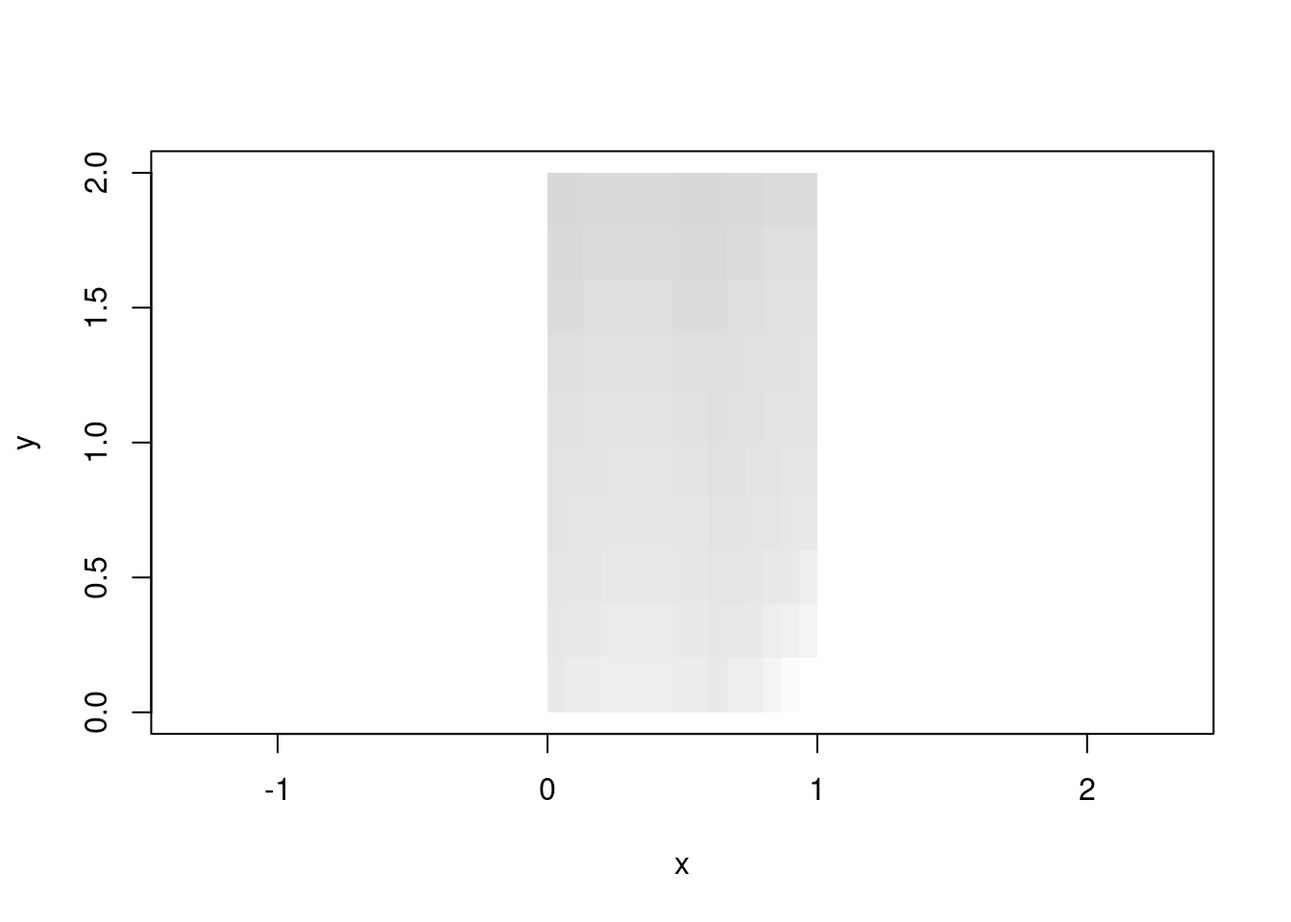
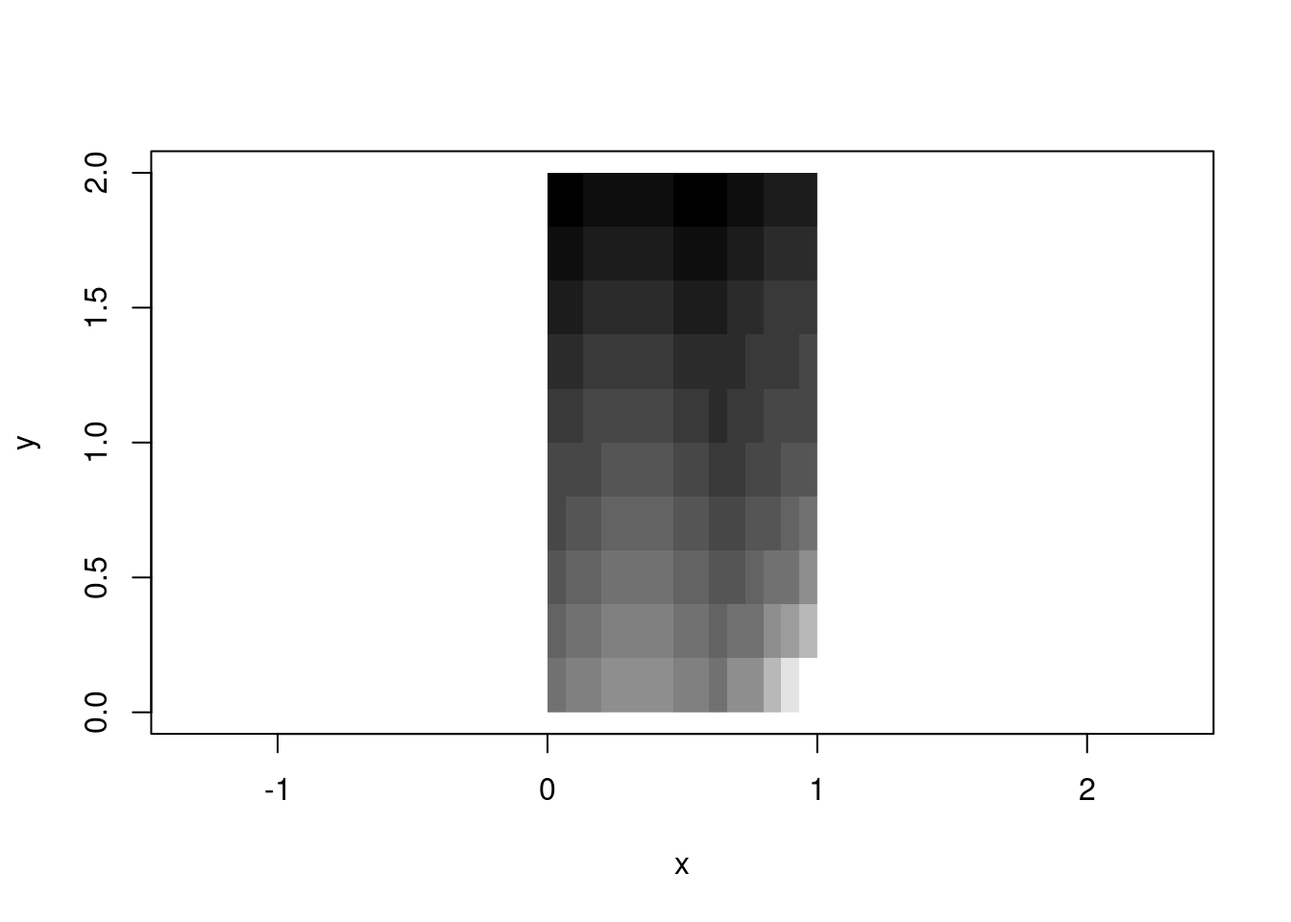
rebuild

Changed region(s): [[0.4062, 0.1875, 0.6562, 0.7812]]

diff --git a/_site/posts/2025-12-21_vaster-grid-logic/vaster-grid-logic.html b/_site/posts/2025-12-21_vaster-grid-logic/vaster-grid-logic.html
@@ -207,7 +207,7 @@ pre > code.sourceCode > span > a:first-child::before { text-decoration: underlin
 <p>Every geospatial package that works with grids has <em>raster logic</em> inside. The old {raster} package in R established powerful abstraction functions and now {terra} includes an improved suite of those, the {stars} package has its own internally, GDAL obviously uses these abstractions deeply, and xarray and many other Python packages also provide this. There is similar logic built into R’s matrix and array functions, its visualization <code>image()</code> function, and the newer <code>rasterImage()</code>.</p>
 <p>Is there a problem? This logic is almost always coupled to a data structure. You can’t use raster’s <code>cellFromXY()</code> without a RasterLayer. You can’t use terra’s <code>xyFromCell()</code> or <code>cells()</code> without a SpatRaster. Many packages have embedded this reinvented wheel, and to more or less degree lock the wheel inside a bigger machine.</p>
 <p>The logic itself is beautifully simple: given a grid with certain dimensions (ncol, nrow) and a spatial extent (xmin, xmax, ymin, ymax, or identically ‘bbox’ xmin,ymin,xmax,ymax), you can compute everything else. Cell indices, row/column positions, coordinate centres and corners, cropping and snapping—all of it flows from six numbers and some basic arithmetic.</p>
-<p>That’s what {vaster} extracts: the logic alone, without any data. (This logic of course is not especially 2D and extends into n-dimensional concepts as well illustrated by xarray and others, but please let’s park that from our discussion here.)</p>
+<p>That’s what <a href="https://hypertidy.github.io/vaster/">{vaster}</a> extracts: the logic alone, without any data. (This logic of course is not especially 2D and extends into n-dimensional concepts as well illustrated by xarray and others, but please let’s park that from our discussion here.)</p>
 </section>
 <section id="r-already-knows-this-sort-of" class="level2">
 <h2 class="anchored" data-anchor-id="r-already-knows-this-sort-of">R already knows this (sort of)</h2>
@@ -235,7 +235,7 @@ pre > code.sourceCode > span > a:first-child::before { text-decoration: underlin
 <h3 class="anchored" data-anchor-id="the-rasterimage-model-bounding-box-placement">The <code>rasterImage()</code> model: bounding box placement</h3>
 <div class="cell">
 <div class="sourceCode cell-code" id="cb2"><pre class="sourceCode r code-with-copy"><code class="sourceCode r"><span id="cb2-1"><a href="#cb2-1" aria-hidden="true" tabindex="-1"></a><span class="fu">plot</span>(<span class="cn">NA</span>, <span class="at">xlim =</span> <span class="fu">c</span>(<span class="dv">0</span>, <span class="dv">1</span>), <span class="at">ylim =</span> <span class="fu">c</span>(<span class="dv">0</span>, <span class="dv">2</span>), <span class="at">asp =</span> <span class="dv">1</span>, <span class="at">xlab =</span> <span class="st">"x"</span>, <span class="at">ylab =</span> <span class="st">"y"</span>)</span>
-<span id="cb2-2"><a href="#cb2-2" aria-hidden="true" tabindex="-1"></a><span class="fu">rasterImage</span>(<span class="fu">as.raster</span>(m<span class="sc">/</span><span class="fu">max</span>(m)), <span class="at">xleft =</span> <span class="dv">0</span>, <span class="at">ybottom =</span> <span class="dv">0</span>, <span class="at">xright =</span> <span class="dv">1</span>, <span class="at">ytop =</span> <span class="dv">2</span>, <span class="at">interpolate =</span> F)</span></code><button title="Copy to Clipboard" class="code-copy-button"><i class="bi"></i></button></pre></div>
+<span id="cb2-2"><a href="#cb2-2" aria-hidden="true" tabindex="-1"></a><span class="fu">rasterImage</span>(<span class="fu">as.raster</span>(scales<span class="sc">::</span><span class="fu">rescale</span>(m)), <span class="at">xleft =</span> <span class="dv">0</span>, <span class="at">ybottom =</span> <span class="dv">0</span>, <span class="at">xright =</span> <span class="dv">1</span>, <span class="at">ytop =</span> <span class="dv">2</span>, <span class="at">interpolate =</span> F)</span></code><button title="Copy to Clipboard" class="code-copy-button"><i class="bi"></i></button></pre></div>
 <div class="cell-output-display">
 <div>
 <figure class="figure">
@@ -249,7 +249,7 @@ pre > code.sourceCode > span > a:first-child::before { text-decoration: underlin
 </section>
 <section id="ximage-unifying-both-models" class="level3">
 <h3 class="anchored" data-anchor-id="ximage-unifying-both-models">{ximage}: unifying both models</h3>
-<p>There’s a sort of frustration in base are with <code>image()</code> and <code>rasterImage()</code>, each have features the other lacks. <code>image()</code> handles numeric data with colour palettes and is geared to R’s matrix orientation, can create a plot or add to an existing one, but by default will draw into a unit square. <code>rasterImage()</code> handles the orientation more aligned to external raster data and graphics, but only works with unit-scaled data or pre-rendered images—no palette mapping, and no plot creation (only adding to an existing plot) .</p>
+<p>There’s a sort of frustration in base with <code>image()</code> and <code>rasterImage()</code>, each has features the other lacks. <code>image()</code> handles numeric data with colour palettes and is geared to R’s matrix orientation, can create a plot or add to an existing one, but by default will draw into a unit square. <code>rasterImage()</code> handles the orientation more aligned to external raster data and graphics, but only works with unit-scaled data or pre-rendered images—no palette mapping, and no plot creation (only adding to an existing plot) .</p>
 <p>{ximage} merges the features of both into one function that uses the rasterImage orientation:</p>
 <div class="sourceCode" id="cb3"><pre class="sourceCode r code-with-copy"><code class="sourceCode r"><span id="cb3-1"><a href="#cb3-1" aria-hidden="true" tabindex="-1"></a><span class="fu">library</span>(ximage)</span>
 <span id="cb3-2"><a href="#cb3-2" aria-hidden="true" tabindex="-1"></a></span>
@@ -453,8 +453,8 @@ $dimension
 <p>{vaster} is the foundation that makes this all clean. Instead of each package reinventing <code>cellFromXY()</code> and friends, they can share a common vocabulary for grid logic.</p>
 </section>
 </section>
-<section id="the-python-world-is-catching-up" class="level2">
-<h2 class="anchored" data-anchor-id="the-python-world-is-catching-up">The Python world is catching up</h2>
+<section id="python-has-the-same-mix-of-concepts-and-tools" class="level2">
+<h2 class="anchored" data-anchor-id="python-has-the-same-mix-of-concepts-and-tools">Python has the same mix of concepts and tools</h2>
 <p>The Python geospatial ecosystem has grappled with the same issues that motivated {vaster}.</p>
 <p>A <a href="https://discourse.pangeo.io/t/comparing-odc-stac-load-and-stackstac-for-raster-composite-workflow/4097">recent pangeo discussion</a> compared <code>odc.stac</code> and <code>stackstac</code>—two packages for loading satellite imagery into xarray. Despite ostensibly doing the same thing, they produce different results. Why?</p>
 <p><strong>Pixel coordinates: edge or centre?</strong> When you say a pixel is at coordinate (100.0, 200.0), do you mean that’s its centre, or its top-left corner? <code>odc.stac</code> defaults to centre, <code>stackstac</code> defaults to edge. Both are valid conventions; GIS tools tend toward corners, while climate/ocean data tends toward centres. But if you don’t know which convention your tool uses, your data shifts by half a pixel.</p>
@@ -467,8 +467,8 @@ $dimension
 <blockquote class="blockquote">
 <p>For 2D raster images, this function often takes the form of an Affine Transform. The rasterix library extends Xarray with a RasterIndex which computes coordinates for geospatial images such as GeoTiffs via Affine Transform.</p>
 </blockquote>
-<p>This is the same insight: <strong>coordinates are implicit in dimension and extent</strong>. You don’t need to materialize a 7-terabyte coordinate array when six numbers suffice. The xarray team is building infrastructure for what {vaster} has provided all along.</p>
-<p>The Python ecosystem is large and well-funded, so these tools will eventually mature. But it’s worth noting that the conceptual foundation—grid logic as pure computation on dimension and extent—has been available in R for years, just waiting to be extracted from the packages that imprisoned it.</p>
+<p>This is the same insight: <strong>coordinates are implicit in dimension and extent</strong>. You don’t need to materialize a 7-terabyte coordinate array when six numbers suffice. The xarray team is building infrastructure for raster grid logic itself.</p>
+<p>The Python ecosystem will align around this conceptual foundation—grid logic as well as R and other language.</p>
 </section>
 </section>
 <section id="the-r-matrix-connection" class="level2">
@@ -483,14 +483,11 @@ $dimension
 <div class="sourceCode cell-code" id="cb28"><pre class="sourceCode r code-with-copy"><code class="sourceCode r"><span id="cb28-1"><a href="#cb28-1" aria-hidden="true" tabindex="-1"></a>dsn <span class="ot">&lt;-</span> <span class="st">"WMTS:https://services.arcgisonline.com/arcgis/rest/services/World_Imagery/MapServer/WMTS/1.0.0/WMTSCapabilities.xml,layer=World_Imagery"</span></span></code><button title="Copy to Clipboard" class="code-copy-button"><i class="bi"></i></button></pre></div>
 </div>
 <p>So, obviously we need a huge stack of Python geospatial to make a map image … or maybe we can just use generic tools and do it in R.</p>
-<p>We’re using {gdalraster} here because it’s the thinnest wrapper over the GDAL API, but the same calls work through {terra}, {vapour}, or Python’s osgeo.gdal. The point isn’t the package — it’s that the interface is just numbers and strings.</p>
+<p>We’re using {gdalraster} here because it’s the thinnest wrapper over the GDAL API, but the same calls work through {terra}, {vapour}, or Python’s osgeo.gdal. The point isn’t the package — it’s that the interface is just numbers and strings. I’m still using a mix of tools and plotting … but that’s life.</p>
 <div class="cell">
-<div class="sourceCode cell-code" id="cb29"><pre class="sourceCode r code-with-copy"><code class="sourceCode r"><span id="cb29-1"><a href="#cb29-1" aria-hidden="true" tabindex="-1"></a><span class="fu">library</span>(gdalraster)</span></code><button title="Copy to Clipboard" class="code-copy-button"><i class="bi"></i></button></pre></div>
-<div class="cell-output cell-output-stderr">
-<pre><code>GDAL 3.12.0beta1 (released 2025-10-26), GEOS 3.12.1, PROJ 9.7.0</code></pre>
-</div>
-<div class="sourceCode cell-code" id="cb31"><pre class="sourceCode r code-with-copy"><code class="sourceCode r"><span id="cb31-1"><a href="#cb31-1" aria-hidden="true" tabindex="-1"></a>ds <span class="ot">&lt;-</span> <span class="fu">new</span>(GDALRaster, dsn)  <span class="do">## same as terra::rast(dsn) or osgeo.gdal.Open(dsn) or rioxarray.open_rasterio(dsn)</span></span>
-<span id="cb31-2"><a href="#cb31-2" aria-hidden="true" tabindex="-1"></a>ds</span></code><button title="Copy to Clipboard" class="code-copy-button"><i class="bi"></i></button></pre></div>
+<div class="sourceCode cell-code" id="cb29"><pre class="sourceCode r code-with-copy"><code class="sourceCode r"><span id="cb29-1"><a href="#cb29-1" aria-hidden="true" tabindex="-1"></a><span class="fu">library</span>(gdalraster)</span>
+<span id="cb29-2"><a href="#cb29-2" aria-hidden="true" tabindex="-1"></a>ds <span class="ot">&lt;-</span> <span class="fu">new</span>(GDALRaster, dsn)  <span class="do">## same as terra::rast(dsn) or osgeo.gdal.Open(dsn) or rioxarray.open_rasterio(dsn)</span></span>
+<span id="cb29-3"><a href="#cb29-3" aria-hidden="true" tabindex="-1"></a>ds</span></code><button title="Copy to Clipboard" class="code-copy-button"><i class="bi"></i></button></pre></div>
 <div class="cell-output cell-output-stdout">
 <pre><code>C++ object of class GDALRaster
  Driver : OGC Web Map Tile Service (WMTS)
@@ -504,17 +501,17 @@ $dimension
 <p>We don’t want the whole world and certainly not that much detail, how about Mawson Station in Antarctica, Mawson is at approximately 62.87E and -67.6S.</p>
 <p>We should define a local equal area projection, on Mawson.</p>
 <div class="cell">
-<div class="sourceCode cell-code" id="cb33"><pre class="sourceCode r code-with-copy"><code class="sourceCode r"><span id="cb33-1"><a href="#cb33-1" aria-hidden="true" tabindex="-1"></a>prj <span class="ot">&lt;-</span> <span class="st">"+proj=laea +lon_0=62.8742 +lat_0=-67.6033"</span></span></code><button title="Copy to Clipboard" class="code-copy-button"><i class="bi"></i></button></pre></div>
+<div class="sourceCode cell-code" id="cb31"><pre class="sourceCode r code-with-copy"><code class="sourceCode r"><span id="cb31-1"><a href="#cb31-1" aria-hidden="true" tabindex="-1"></a>prj <span class="ot">&lt;-</span> <span class="st">"+proj=laea +lon_0=62.8742 +lat_0=-67.6033"</span></span></code><button title="Copy to Clipboard" class="code-copy-button"><i class="bi"></i></button></pre></div>
 </div>
 <p>What is the right extent or bbox for that projection? It’s just metres around the <em>zero-point</em>, let’s go with a range.</p>
 <div class="cell">
-<div class="sourceCode cell-code" id="cb34"><pre class="sourceCode r code-with-copy"><code class="sourceCode r"><span id="cb34-1"><a href="#cb34-1" aria-hidden="true" tabindex="-1"></a>b <span class="ot">&lt;-</span> <span class="dv">75000</span></span>
-<span id="cb34-2"><a href="#cb34-2" aria-hidden="true" tabindex="-1"></a>tfile <span class="ot">&lt;-</span> <span class="fu">tempfile</span>(<span class="at">tmpdir =</span> <span class="st">"/vsimem"</span>, <span class="at">fileext =</span> <span class="st">".vrt"</span>) <span class="do">## use GDAL to manage IO and cleanup, same in other tools</span></span>
-<span id="cb34-3"><a href="#cb34-3" aria-hidden="true" tabindex="-1"></a>chk <span class="ot">&lt;-</span> <span class="fu">warp</span>(dsn, tfile, <span class="at">t_srs =</span> prj, <span class="at">cl_arg =</span> <span class="fu">c</span>(<span class="st">"-te"</span>, <span class="sc">-</span>b, <span class="sc">-</span>b, b, b,  <span class="st">"-ts"</span>, <span class="dv">1024</span>, <span class="dv">0</span>))</span></code><button title="Copy to Clipboard" class="code-copy-button"><i class="bi"></i></button></pre></div>
+<div class="sourceCode cell-code" id="cb32"><pre class="sourceCode r code-with-copy"><code class="sourceCode r"><span id="cb32-1"><a href="#cb32-1" aria-hidden="true" tabindex="-1"></a>b <span class="ot">&lt;-</span> <span class="dv">75000</span></span>
+<span id="cb32-2"><a href="#cb32-2" aria-hidden="true" tabindex="-1"></a>tfile <span class="ot">&lt;-</span> <span class="fu">tempfile</span>(<span class="at">tmpdir =</span> <span class="st">"/vsimem"</span>, <span class="at">fileext =</span> <span class="st">".vrt"</span>) <span class="do">## use GDAL to manage IO and cleanup, same in other tools</span></span>
+<span id="cb32-3"><a href="#cb32-3" aria-hidden="true" tabindex="-1"></a>chk <span class="ot">&lt;-</span> <span class="fu">warp</span>(dsn, tfile, <span class="at">t_srs =</span> prj, <span class="at">cl_arg =</span> <span class="fu">c</span>(<span class="st">"-te"</span>, <span class="sc">-</span>b, <span class="sc">-</span>b, b, b,  <span class="st">"-ts"</span>, <span class="dv">1024</span>, <span class="dv">0</span>))</span></code><button title="Copy to Clipboard" class="code-copy-button"><i class="bi"></i></button></pre></div>
 <div class="cell-output cell-output-stdout">
 <pre><code>0...10...20...30...40...50...60...70...80...90...100 - done.</code></pre>
 </div>
-<div class="sourceCode cell-code" id="cb36"><pre class="sourceCode r code-with-copy"><code class="sourceCode r"><span id="cb36-1"><a href="#cb36-1" aria-hidden="true" tabindex="-1"></a><span class="fu">plot_raster</span>(<span class="fu">read_ds</span>(<span class="fu">new</span>(GDALRaster, tfile), <span class="at">bands =</span> <span class="dv">1</span><span class="sc">:</span><span class="dv">3</span>))</span></code><button title="Copy to Clipboard" class="code-copy-button"><i class="bi"></i></button></pre></div>
+<div class="sourceCode cell-code" id="cb34"><pre class="sourceCode r code-with-copy"><code class="sourceCode r"><span id="cb34-1"><a href="#cb34-1" aria-hidden="true" tabindex="-1"></a><span class="fu">plot_raster</span>(<span class="fu">read_ds</span>(<span class="fu">new</span>(GDALRaster, tfile), <span class="at">bands =</span> <span class="dv">1</span><span class="sc">:</span><span class="dv">3</span>))</span></code><button title="Copy to Clipboard" class="code-copy-button"><i class="bi"></i></button></pre></div>
 <div class="cell-output-display">
 <div>
 <figure class="figure">
@@ -525,17 +522,17 @@ $dimension
 </div>
 <p>What about a different data source, can we see any meaningful data in sea ice at this time of year?</p>
 <div class="cell">
-<div class="sourceCode cell-code" id="cb37"><pre class="sourceCode r code-with-copy"><code class="sourceCode r"><span id="cb37-1"><a href="#cb37-1" aria-hidden="true" tabindex="-1"></a>icedsn <span class="ot">&lt;-</span> <span class="st">"/vsicurl/https://data.seaice.uni-bremen.de/amsr2/asi_daygrid_swath/s3125/2025/dec/Antarctic3125/asi-AMSR2-s3125-20251220-v5.4.tif"</span></span>
-<span id="cb37-2"><a href="#cb37-2" aria-hidden="true" tabindex="-1"></a></span>
-<span id="cb37-3"><a href="#cb37-3" aria-hidden="true" tabindex="-1"></a>tfile <span class="ot">&lt;-</span> <span class="fu">tempfile</span>(<span class="at">tmpdir =</span> <span class="st">"/vsimem"</span>, <span class="at">fileext =</span> <span class="st">".vrt"</span>)</span>
-<span id="cb37-4"><a href="#cb37-4" aria-hidden="true" tabindex="-1"></a>chk <span class="ot">&lt;-</span> <span class="fu">warp</span>(icedsn, tfile, <span class="at">t_srs =</span> prj, <span class="at">cl_arg =</span> <span class="fu">c</span>(<span class="st">"-te"</span>, <span class="sc">-</span>b, <span class="sc">-</span>b, b, b,  <span class="st">"-ts"</span>, <span class="dv">1024</span>, <span class="dv">0</span>))</span></code><button title="Copy to Clipboard" class="code-copy-button"><i class="bi"></i></button></pre></div>
+<div class="sourceCode cell-code" id="cb35"><pre class="sourceCode r code-with-copy"><code class="sourceCode r"><span id="cb35-1"><a href="#cb35-1" aria-hidden="true" tabindex="-1"></a>icedsn <span class="ot">&lt;-</span> <span class="st">"/vsicurl/https://data.seaice.uni-bremen.de/amsr2/asi_daygrid_swath/s3125/2025/dec/Antarctic3125/asi-AMSR2-s3125-20251220-v5.4.tif"</span></span>
+<span id="cb35-2"><a href="#cb35-2" aria-hidden="true" tabindex="-1"></a></span>
+<span id="cb35-3"><a href="#cb35-3" aria-hidden="true" tabindex="-1"></a>tfile <span class="ot">&lt;-</span> <span class="fu">tempfile</span>(<span class="at">tmpdir =</span> <span class="st">"/vsimem"</span>, <span class="at">fileext =</span> <span class="st">".vrt"</span>)</span>
+<span id="cb35-4"><a href="#cb35-4" aria-hidden="true" tabindex="-1"></a>chk <span class="ot">&lt;-</span> <span class="fu">warp</span>(icedsn, tfile, <span class="at">t_srs =</span> prj, <span class="at">cl_arg =</span> <span class="fu">c</span>(<span class="st">"-te"</span>, <span class="sc">-</span>b, <span class="sc">-</span>b, b, b,  <span class="st">"-ts"</span>, <span class="dv">1024</span>, <span class="dv">0</span>))</span></code><button title="Copy to Clipboard" class="code-copy-button"><i class="bi"></i></button></pre></div>
 <div class="cell-output cell-output-stdout">
 <pre><code>0...10...20...30...40...50...60...70...80...90...100 - done.</code></pre>
 </div>
-<div class="sourceCode cell-code" id="cb39"><pre class="sourceCode r code-with-copy"><code class="sourceCode r"><span id="cb39-1"><a href="#cb39-1" aria-hidden="true" tabindex="-1"></a>dat <span class="ot">&lt;-</span> <span class="fu">read_ds</span>(<span class="fu">new</span>(GDALRaster, tfile), <span class="at">bands =</span> <span class="dv">1</span>)</span>
-<span id="cb39-2"><a href="#cb39-2" aria-hidden="true" tabindex="-1"></a>dat[dat <span class="sc">&gt;</span> <span class="dv">100</span>] <span class="ot">&lt;-</span> <span class="cn">NA</span></span>
-<span id="cb39-3"><a href="#cb39-3" aria-hidden="true" tabindex="-1"></a>op <span class="ot">&lt;-</span> <span class="fu">par</span>(<span class="at">bg =</span> <span class="st">"darkgrey"</span>)</span>
-<span id="cb39-4"><a href="#cb39-4" aria-hidden="true" tabindex="-1"></a><span class="fu">plot_raster</span>(dat, <span class="at">legend =</span> T)</span></code><button title="Copy to Clipboard" class="code-copy-button"><i class="bi"></i></button></pre></div>
+<div class="sourceCode cell-code" id="cb37"><pre class="sourceCode r code-with-copy"><code class="sourceCode r"><span id="cb37-1"><a href="#cb37-1" aria-hidden="true" tabindex="-1"></a>dat <span class="ot">&lt;-</span> <span class="fu">read_ds</span>(<span class="fu">new</span>(GDALRaster, tfile), <span class="at">bands =</span> <span class="dv">1</span>)</span>
+<span id="cb37-2"><a href="#cb37-2" aria-hidden="true" tabindex="-1"></a>dat[dat <span class="sc">&gt;</span> <span class="dv">100</span>] <span class="ot">&lt;-</span> <span class="cn">NA</span></span>
+<span id="cb37-3"><a href="#cb37-3" aria-hidden="true" tabindex="-1"></a>op <span class="ot">&lt;-</span> <span class="fu">par</span>(<span class="at">bg =</span> <span class="st">"darkgrey"</span>)</span>
+<span id="cb37-4"><a href="#cb37-4" aria-hidden="true" tabindex="-1"></a><span class="fu">plot_raster</span>(dat, <span class="at">legend =</span> T)</span></code><button title="Copy to Clipboard" class="code-copy-button"><i class="bi"></i></button></pre></div>
 <div class="cell-output-display">
 <div>
 <figure class="figure">
@@ -543,18 +540,18 @@ $dimension
 </figure>
 </div>
 </div>
-<div class="sourceCode cell-code" id="cb40"><pre class="sourceCode r code-with-copy"><code class="sourceCode r"><span id="cb40-1"><a href="#cb40-1" aria-hidden="true" tabindex="-1"></a><span class="fu">par</span>(op)</span></code><button title="Copy to Clipboard" class="code-copy-button"><i class="bi"></i></button></pre></div>
+<div class="sourceCode cell-code" id="cb38"><pre class="sourceCode r code-with-copy"><code class="sourceCode r"><span id="cb38-1"><a href="#cb38-1" aria-hidden="true" tabindex="-1"></a><span class="fu">par</span>(op)</span></code><button title="Copy to Clipboard" class="code-copy-button"><i class="bi"></i></button></pre></div>
 </div>
 <p>Not unexpectedly at 3.125km resolution it’s a bit sparse on information, but we didn’t have to use a different approach to get coincident data.</p>
 <p>What about the bathymetry? Even at this scale we can see the disparity between bathymetric and topographic detail.</p>
 <div class="cell">
-<div class="sourceCode cell-code" id="cb41"><pre class="sourceCode r code-with-copy"><code class="sourceCode r"><span id="cb41-1"><a href="#cb41-1" aria-hidden="true" tabindex="-1"></a>bathdsn <span class="ot">&lt;-</span> <span class="st">"/vsicurl/https://projects.pawsey.org.au/idea-gebco-tif/GEBCO_2024.tif"</span></span>
-<span id="cb41-2"><a href="#cb41-2" aria-hidden="true" tabindex="-1"></a>tfile <span class="ot">&lt;-</span> <span class="fu">tempfile</span>(<span class="at">tmpdir =</span> <span class="st">"/vsimem"</span>, <span class="at">fileext =</span> <span class="st">".vrt"</span>)</span>
-<span id="cb41-3"><a href="#cb41-3" aria-hidden="true" tabindex="-1"></a>chk <span class="ot">&lt;-</span> <span class="fu">warp</span>(bathdsn, tfile, <span class="at">t_srs =</span> prj, <span class="at">cl_arg =</span> <span class="fu">c</span>(<span class="st">"-te"</span>, <span class="sc">-</span>b, <span class="sc">-</span>b, b, b,  <span class="st">"-ts"</span>, <span class="dv">1024</span>, <span class="dv">0</span>))</span></code><button title="Copy to Clipboard" class="code-copy-button"><i class="bi"></i></button></pre></div>
+<div class="sourceCode cell-code" id="cb39"><pre class="sourceCode r code-with-copy"><code class="sourceCode r"><span id="cb39-1"><a href="#cb39-1" aria-hidden="true" tabindex="-1"></a>bathdsn <span class="ot">&lt;-</span> <span class="st">"/vsicurl/https://projects.pawsey.org.au/idea-gebco-tif/GEBCO_2024.tif"</span></span>
+<span id="cb39-2"><a href="#cb39-2" aria-hidden="true" tabindex="-1"></a>tfile <span class="ot">&lt;-</span> <span class="fu">tempfile</span>(<span class="at">tmpdir =</span> <span class="st">"/vsimem"</span>, <span class="at">fileext =</span> <span class="st">".vrt"</span>)</span>
+<span id="cb39-3"><a href="#cb39-3" aria-hidden="true" tabindex="-1"></a>chk <span class="ot">&lt;-</span> <span class="fu">warp</span>(bathdsn, tfile, <span class="at">t_srs =</span> prj, <span class="at">cl_arg =</span> <span class="fu">c</span>(<span class="st">"-te"</span>, <span class="sc">-</span>b, <span class="sc">-</span>b, b, b,  <span class="st">"-ts"</span>, <span class="dv">1024</span>, <span class="dv">0</span>))</span></code><button title="Copy to Clipboard" class="code-copy-button"><i class="bi"></i></button></pre></div>
 <div class="cell-output cell-output-stdout">
 <pre><code>0...10...20...30...40...50...60...70...80...90...100 - done.</code></pre>
 </div>
-<div class="sourceCode cell-code" id="cb43"><pre class="sourceCode r code-with-copy"><code class="sourceCode r"><span id="cb43-1"><a href="#cb43-1" aria-hidden="true" tabindex="-1"></a><span class="fu">plot_raster</span>(<span class="fu">read_ds</span>(<span class="fu">new</span>(GDALRaster, tfile), <span class="at">bands =</span> <span class="dv">1</span>), <span class="at">col_map_fn =</span> <span class="fu">hcl.colors</span>(<span class="dv">128</span>), <span class="at">legend =</span> <span class="cn">TRUE</span>)</span></code><button title="Copy to Clipboard" class="code-copy-button"><i class="bi"></i></button></pre></div>
+<div class="sourceCode cell-code" id="cb41"><pre class="sourceCode r code-with-copy"><code class="sourceCode r"><span id="cb41-1"><a href="#cb41-1" aria-hidden="true" tabindex="-1"></a><span class="fu">plot_raster</span>(<span class="fu">read_ds</span>(<span class="fu">new</span>(GDALRaster, tfile), <span class="at">bands =</span> <span class="dv">1</span>), <span class="at">col_map_fn =</span> <span class="fu">hcl.colors</span>(<span class="dv">128</span>), <span class="at">legend =</span> <span class="cn">TRUE</span>)</span></code><button title="Copy to Clipboard" class="code-copy-button"><i class="bi"></i></button></pre></div>
 <div class="cell-output-display">
 <div>
 <figure class="figure">
@@ -565,41 +562,24 @@ $dimension
 </div>
 <p>Let’s zoom right in, and this time we’ll use terra so that adding contours is easy, read the REMA v2 2m topography and add it as contours.</p>
 <div class="cell">
-<div class="sourceCode cell-code" id="cb44"><pre class="sourceCode r code-with-copy"><code class="sourceCode r"><span id="cb44-1"><a href="#cb44-1" aria-hidden="true" tabindex="-1"></a>b <span class="ot">&lt;-</span> <span class="dv">3000</span></span>
-<span id="cb44-2"><a href="#cb44-2" aria-hidden="true" tabindex="-1"></a>tfile <span class="ot">&lt;-</span> <span class="fu">tempfile</span>(<span class="at">tmpdir =</span> <span class="st">"/vsimem"</span>, <span class="at">fileext =</span> <span class="st">".vrt"</span>)</span>
-<span id="cb44-3"><a href="#cb44-3" aria-hidden="true" tabindex="-1"></a>chk <span class="ot">&lt;-</span> <span class="fu">warp</span>(dsn, tfile, <span class="at">t_srs =</span> prj, <span class="at">cl_arg =</span> <span class="fu">c</span>(<span class="st">"-te"</span>, <span class="sc">-</span>b, <span class="sc">-</span>b, b, b,  <span class="st">"-ts"</span>, <span class="dv">1024</span>, <span class="dv">0</span>))</span></code><button title="Copy to Clipboard" class="code-copy-button"><i class="bi"></i></button></pre></div>
+<div class="sourceCode cell-code" id="cb42"><pre class="sourceCode r code-with-copy"><code class="sourceCode r"><span id="cb42-1"><a href="#cb42-1" aria-hidden="true" tabindex="-1"></a>b <span class="ot">&lt;-</span> <span class="dv">3000</span></span>
+<span id="cb42-2"><a href="#cb42-2" aria-hidden="true" tabindex="-1"></a>tfile <span class="ot">&lt;-</span> <span class="fu">tempfile</span>(<span class="at">tmpdir =</span> <span class="st">"/vsimem"</span>, <span class="at">fileext =</span> <span class="st">".vrt"</span>)</span>
+<span id="cb42-3"><a href="#cb42-3" aria-hidden="true" tabindex="-1"></a>chk <span class="ot">&lt;-</span> <span class="fu">warp</span>(dsn, tfile, <span class="at">t_srs =</span> prj, <span class="at">cl_arg =</span> <span class="fu">c</span>(<span class="st">"-te"</span>, <span class="sc">-</span>b, <span class="sc">-</span>b, b, b,  <span class="st">"-ts"</span>, <span class="dv">1024</span>, <span class="dv">0</span>))</span></code><button title="Copy to Clipboard" class="code-copy-button"><i class="bi"></i></button></pre></div>
 <div class="cell-output cell-output-stdout">
 <pre><code>0...10...20...30...40...50...60...70...80...90...100 - done.</code></pre>
 </div>
-<div class="sourceCode cell-code" id="cb46"><pre class="sourceCode r code-with-copy"><code class="sourceCode r"><span id="cb46-1"><a href="#cb46-1" aria-hidden="true" tabindex="-1"></a><span class="fu">plot_raster</span>(<span class="fu">read_ds</span>(<span class="fu">new</span>(GDALRaster, tfile), <span class="at">bands =</span> <span class="dv">1</span><span class="sc">:</span><span class="dv">3</span>))</span>
-<span id="cb46-2"><a href="#cb46-2" aria-hidden="true" tabindex="-1"></a></span>
-<span id="cb46-3"><a href="#cb46-3" aria-hidden="true" tabindex="-1"></a>remadsn <span class="ot">&lt;-</span> <span class="st">"/vsicurl/https://raw.githubusercontent.com/mdsumner/rema-ovr/main/REMA-2m_dem_ovr.vrt"</span></span>
-<span id="cb46-4"><a href="#cb46-4" aria-hidden="true" tabindex="-1"></a><span class="fu">library</span>(terra)</span></code><button title="Copy to Clipboard" class="code-copy-button"><i class="bi"></i></button></pre></div>
-<div class="cell-output cell-output-stderr">
-<pre><code>terra 1.8.80</code></pre>
-</div>
-<div class="cell-output cell-output-stderr">
-<pre><code>
-Attaching package: 'terra'</code></pre>
-</div>
-<div class="cell-output cell-output-stderr">
-<pre><code>The following object is masked from 'package:gdalraster':
-
-    rasterize</code></pre>
-</div>
-<div class="cell-output cell-output-stderr">
-<pre><code>The following object is masked from 'package:vaster':
-
-    origin</code></pre>
-</div>
-<div class="sourceCode cell-code" id="cb51"><pre class="sourceCode r code-with-copy"><code class="sourceCode r"><span id="cb51-1"><a href="#cb51-1" aria-hidden="true" tabindex="-1"></a>r <span class="ot">&lt;-</span> <span class="fu">rast</span>(<span class="fu">ext</span>(<span class="sc">-</span>b, b, <span class="sc">-</span>b, b), <span class="at">crs =</span> prj, <span class="at">ncols =</span> <span class="dv">1024</span>, <span class="at">nrows =</span> <span class="dv">1024</span>)</span>
-<span id="cb51-2"><a href="#cb51-2" aria-hidden="true" tabindex="-1"></a>tfile <span class="ot">&lt;-</span> <span class="fu">tempfile</span>(<span class="at">tmpdir =</span> <span class="st">"/vsimem"</span>, <span class="at">fileext =</span> <span class="st">".vrt"</span>)</span>
-<span id="cb51-3"><a href="#cb51-3" aria-hidden="true" tabindex="-1"></a>chk <span class="ot">&lt;-</span> <span class="fu">warp</span>(remadsn, tfile, <span class="at">t_srs =</span> prj, <span class="at">cl_arg =</span> <span class="fu">c</span>(<span class="st">"-te"</span>, <span class="sc">-</span>b, <span class="sc">-</span>b, b, b,  <span class="st">"-ts"</span>, <span class="dv">1024</span>, <span class="dv">1024</span>))</span></code><button title="Copy to Clipboard" class="code-copy-button"><i class="bi"></i></button></pre></div>
+<div class="sourceCode cell-code" id="cb44"><pre class="sourceCode r code-with-copy"><code class="sourceCode r"><span id="cb44-1"><a href="#cb44-1" aria-hidden="true" tabindex="-1"></a><span class="fu">plot_raster</span>(<span class="fu">read_ds</span>(<span class="fu">new</span>(GDALRaster, tfile), <span class="at">bands =</span> <span class="dv">1</span><span class="sc">:</span><span class="dv">3</span>))</span>
+<span id="cb44-2"><a href="#cb44-2" aria-hidden="true" tabindex="-1"></a></span>
+<span id="cb44-3"><a href="#cb44-3" aria-hidden="true" tabindex="-1"></a>remadsn <span class="ot">&lt;-</span> <span class="st">"/vsicurl/https://raw.githubusercontent.com/mdsumner/rema-ovr/main/REMA-2m_dem_ovr.vrt"</span></span>
+<span id="cb44-4"><a href="#cb44-4" aria-hidden="true" tabindex="-1"></a><span class="fu">library</span>(terra)</span>
+<span id="cb44-5"><a href="#cb44-5" aria-hidden="true" tabindex="-1"></a>r <span class="ot">&lt;-</span> <span class="fu">rast</span>(<span class="fu">ext</span>(<span class="sc">-</span>b, b, <span class="sc">-</span>b, b), <span class="at">crs =</span> prj, <span class="at">ncols =</span> <span class="dv">1024</span>, <span class="at">nrows =</span> <span class="dv">1024</span>)</span>
+<span id="cb44-6"><a href="#cb44-6" aria-hidden="true" tabindex="-1"></a>tfile <span class="ot">&lt;-</span> <span class="fu">tempfile</span>(<span class="at">tmpdir =</span> <span class="st">"/vsimem"</span>, <span class="at">fileext =</span> <span class="st">".vrt"</span>)</span>
+<span id="cb44-7"><a href="#cb44-7" aria-hidden="true" tabindex="-1"></a>chk <span class="ot">&lt;-</span> <span class="fu">warp</span>(remadsn, tfile, <span class="at">t_srs =</span> prj, <span class="at">cl_arg =</span> <span class="fu">c</span>(<span class="st">"-te"</span>, <span class="sc">-</span>b, <span class="sc">-</span>b, b, b,  <span class="st">"-ts"</span>, <span class="dv">1024</span>, <span class="dv">1024</span>))</span></code><button title="Copy to Clipboard" class="code-copy-button"><i class="bi"></i></button></pre></div>
 <div class="cell-output cell-output-stdout">
 <pre><code>0...10...20...30...40...50...60...70...80...90...100 - done.</code></pre>
 </div>
-<div class="sourceCode cell-code" id="cb53"><pre class="sourceCode r code-with-copy"><code class="sourceCode r"><span id="cb53-1"><a href="#cb53-1" aria-hidden="true" tabindex="-1"></a>rema <span class="ot">&lt;-</span> <span class="fu">read_ds</span>(<span class="fu">new</span>(GDALRaster, tfile), <span class="at">bands =</span> <span class="dv">1</span>)</span>
-<span id="cb53-2"><a href="#cb53-2" aria-hidden="true" tabindex="-1"></a><span class="fu">contour</span>(<span class="fu">setValues</span>(r, rema), <span class="at">add =</span> <span class="cn">TRUE</span>)</span></code><button title="Copy to Clipboard" class="code-copy-button"><i class="bi"></i></button></pre></div>
+<div class="sourceCode cell-code" id="cb46"><pre class="sourceCode r code-with-copy"><code class="sourceCode r"><span id="cb46-1"><a href="#cb46-1" aria-hidden="true" tabindex="-1"></a>rema <span class="ot">&lt;-</span> <span class="fu">read_ds</span>(<span class="fu">new</span>(GDALRaster, tfile), <span class="at">bands =</span> <span class="dv">1</span>)</span>
+<span id="cb46-2"><a href="#cb46-2" aria-hidden="true" tabindex="-1"></a><span class="fu">contour</span>(<span class="fu">setValues</span>(r, rema), <span class="at">add =</span> <span class="cn">TRUE</span>)</span></code><button title="Copy to Clipboard" class="code-copy-button"><i class="bi"></i></button></pre></div>
 <div class="cell-output-display">
 <div>
 <figure class="figure">
@@ -611,9 +591,9 @@ Attaching package: 'terra'</code></pre>
 </section>
 <section id="thanks" class="level2">
 <h2 class="anchored" data-anchor-id="thanks">Thanks</h2>
-<p>Hopefully this sparks some interest in the simplicity of raster grid logic and using the GDAL warp api as intended</p>
+<p>Hopefully this sparks some interest in the simplicity of raster grid logic and more folks using the GDAL warp api to its full potential.</p>
 <div class="cell">
-<div class="sourceCode cell-code" id="cb54"><pre class="sourceCode r code-with-copy"><code class="sourceCode r"><span id="cb54-1"><a href="#cb54-1" aria-hidden="true" tabindex="-1"></a><span class="fu">sessionInfo</span>()</span></code><button title="Copy to Clipboard" class="code-copy-button"><i class="bi"></i></button></pre></div>
+<div class="sourceCode cell-code" id="cb47"><pre class="sourceCode r code-with-copy"><code class="sourceCode r"><span id="cb47-1"><a href="#cb47-1" aria-hidden="true" tabindex="-1"></a><span class="fu">sessionInfo</span>()</span></code><button title="Copy to Clipboard" class="code-copy-button"><i class="bi"></i></button></pre></div>
 <div class="cell-output cell-output-stdout">
 <pre><code>R version 4.5.1 (2025-06-13)
 Platform: x86_64-pc-linux-gnu
@@ -638,7 +618,7 @@ attached base packages:
 [1] stats     graphics  grDevices utils     datasets  methods   base     
 
 other attached packages:
-[1] terra_1.8-80          gdalraster_2.3.0.9007 vaster_0.5.0         
+[1] gdalraster_2.3.0.9007 terra_1.8-80          vaster_0.5.0         
 
 loaded via a namespace (and not attached):
  [1] cli_3.6.5          knitr_1.50         rlang_1.1.6        xfun_0.53         

diff --git a/_site/index.html b/_site/index.html
@@ -210,7 +210,7 @@ window.Quarto = {
 
 <div class="quarto-listing quarto-listing-container-default" id="listing-listing">
 <div class="list quarto-listing-default">
-<div class="quarto-post image-right" data-index="0" data-categories="Y29kZSUyQ25ld3M=" data-listing-date-sort="1766275200000" data-listing-file-modified-sort="1766305683990" data-listing-date-modified-sort="NaN" data-listing-reading-time-sort="14" data-listing-word-count-sort="2758">
+<div class="quarto-post image-right" data-index="0" data-categories="Y29kZSUyQ25ld3M=" data-listing-date-sort="1766275200000" data-listing-file-modified-sort="1766305940610" data-listing-date-modified-sort="NaN" data-listing-reading-time-sort="14" data-listing-word-count-sort="2758">
 <div class="thumbnail">
 <p><a href="./posts/2025-12-21_vaster-grid-logic/vaster-grid-logic.html" class="no-external"></a></p><a href="./posts/2025-12-21_vaster-grid-logic/vaster-grid-logic.html" class="no-external">
 <p class="card-img-top"><img src="posts/2025-12-21_vaster-grid-logic/vaster-grid-logic_files/figure-html/image-model-1.png"  class="thumbnail-image card-img"/></p>
